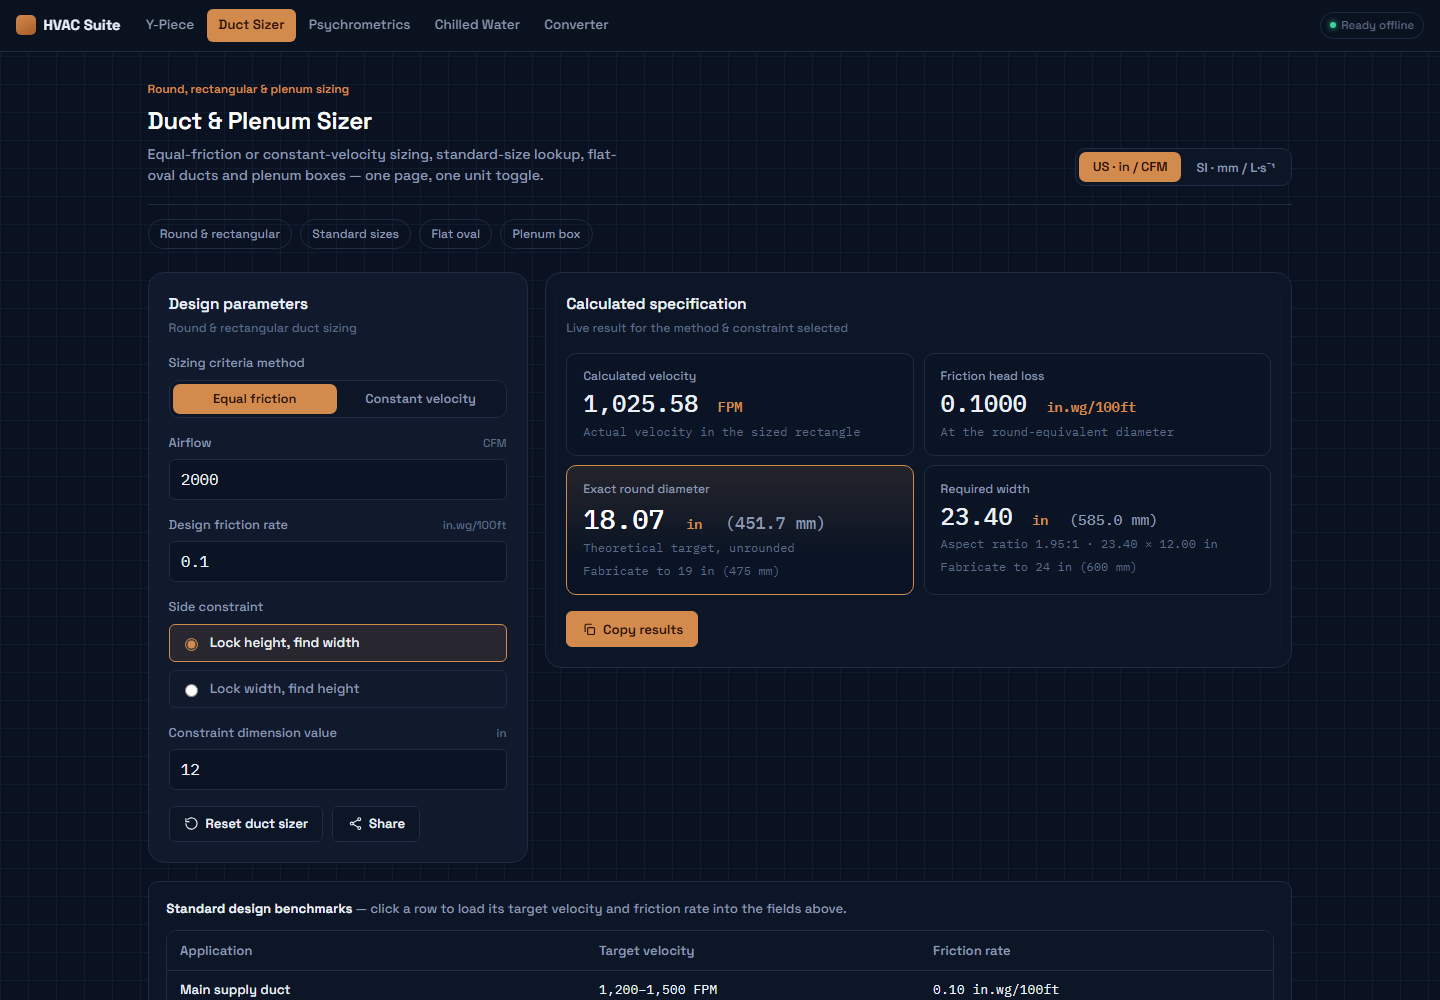
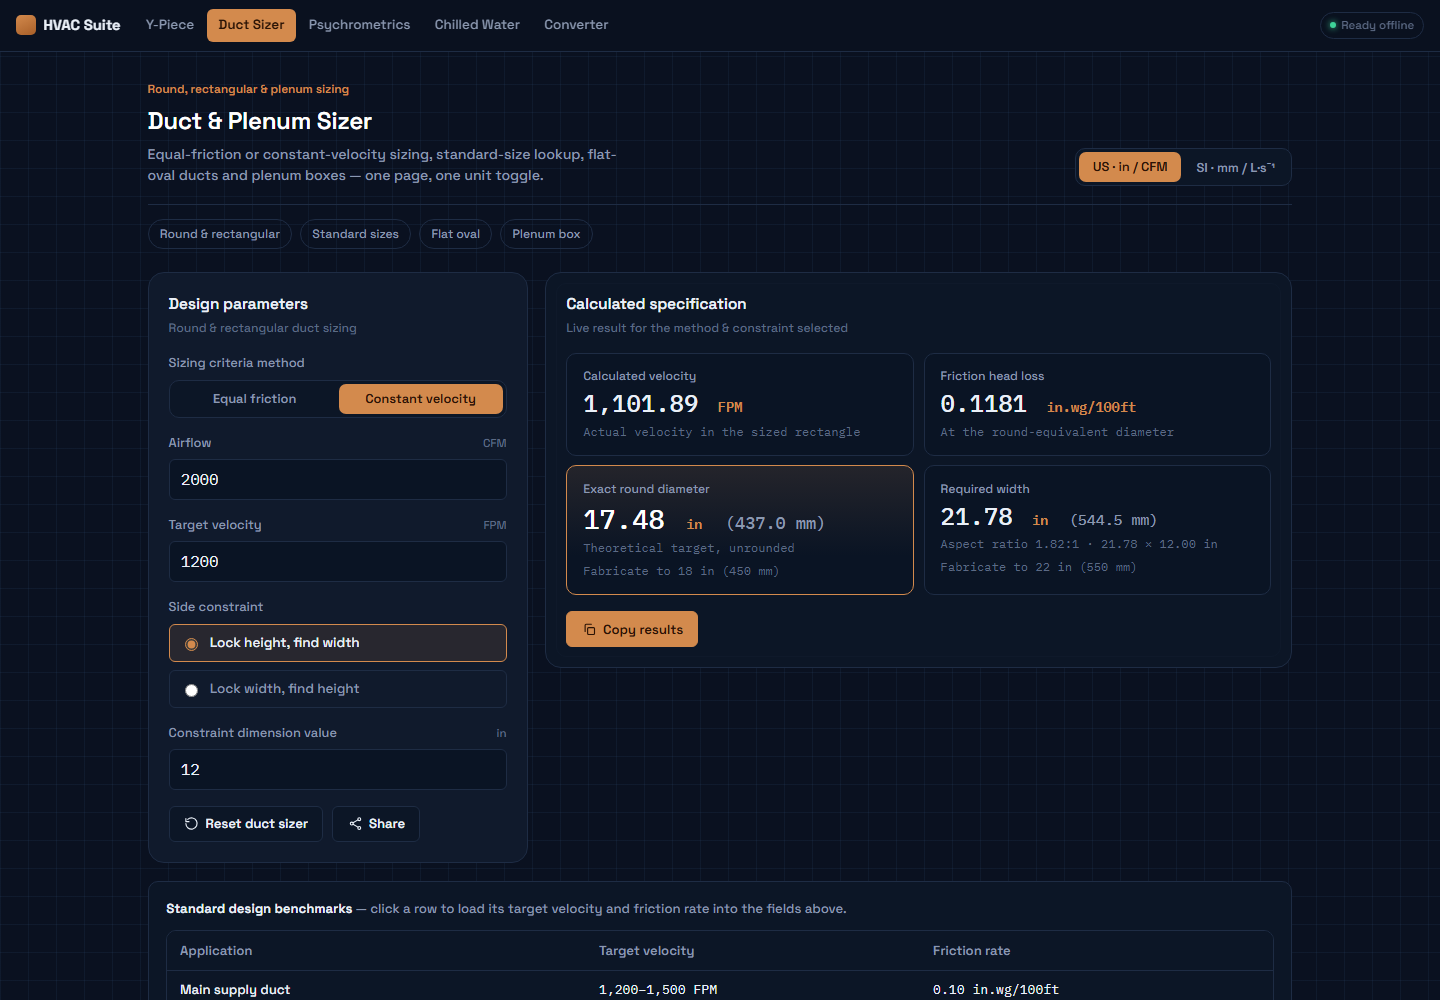
change landing defaults: duct sizer to constant velocity @1200 FPM, psychrometrics to IP with 55% RH
Duct sizer now opens on the sizing method engineers reach for most
often. Lock height was already the default; the method and target
velocity are what change.

- method: equal friction -> constant velocity
- target velocity: 1350 -> 1200 FPM
- static first-paint markup moved to match, so the correct toggle is
  active before the script runs and the friction field is the one hidden

At 2000 CFM / 1200 FPM this lands on a 17.48 in round equivalent and a
12 x 22 in rectangle at 1102 FPM.

Psychrometrics now opens in IP, matching the rest of the suite, with the
familiar 77 degF / 55% RH sea-level case.

- default unit SI -> IP, DB 24 C -> 77 F, RH 50% -> 55%
- the RH seed on mode switch is now 55% to match
- static unit toggle and field hints updated to degF/ft for first paint

Verified against hand calculation: 77 F / 55% RH at sea level gives
W = 76.16 gr/lb, h = 30.40 Btu/lb, v = 13.767 ft3/lb.

Defaults only apply when no state is stored, so anyone who has already
entered values keeps their case. Retaken the duct sizer and
psychrometrics screenshots so the README matches the landing state.

diff --git a/psychrometrics/index.html b/psychrometrics/index.html
@@ -50,8 +50,8 @@
       <p>Full state from dry-bulb plus any one of relative humidity, wet-bulb or dew-point — with a live chart and ISHRAE city presets.</p>
     </div>
     <div class="segmented" id="unitToggle" role="group" aria-label="Unit system">
-      <button type="button" data-unit="si" class="active">SI · °C / kPa</button>
-      <button type="button" data-unit="ip">IP · °F / psia</button>
+      <button type="button" data-unit="si">SI · °C / kPa</button>
+      <button type="button" data-unit="ip" class="active">IP · °F / psia</button>
     </div>
   </div>
 
@@ -69,11 +69,11 @@
 
       <div class="grid-2">
         <div class="field">
-          <label for="pDB">Dry-bulb temperature <span class="hint" id="u_pDB">°C</span></label>
+          <label for="pDB">Dry-bulb temperature <span class="hint" id="u_pDB">°F</span></label>
           <input type="number" id="pDB" inputmode="decimal" step="any">
         </div>
         <div class="field">
-          <label for="pAlt">Altitude <span class="hint" id="u_pAlt">m</span></label>
+          <label for="pAlt">Altitude <span class="hint" id="u_pAlt">ft</span></label>
           <input type="number" id="pAlt" inputmode="decimal" step="any">
         </div>
       </div>
@@ -212,7 +212,7 @@
   function round3(v) { return Math.round(v * 1000) / 1000; }
 
   /* ---- persistence ---- */
-  const DEFAULTS = { unit: 'si', mode: 'rh', pDB: 24, pAlt: 0, pSecond: 50, pCity: '' };
+  const DEFAULTS = { unit: 'ip', mode: 'rh', pDB: 77, pAlt: 0, pSecond: 55, pCity: '' };
   function currentState() {
     return { unit, mode, pDB: $('pDB').value, pAlt: $('pAlt').value, pSecond: $('pSecond').value, pCity: citySel.value };
   }
@@ -387,7 +387,7 @@
   document.querySelectorAll('#unitToggle button').forEach((b) => b.addEventListener('click', () => setUnit(b.dataset.unit)));
   document.querySelectorAll('#modeToggle button').forEach((b) => b.addEventListener('click', () => {
     mode = b.dataset.mode; paintMode();
-    if (mode === 'rh') $('pSecond').value = 50;
+    if (mode === 'rh') $('pSecond').value = 55;
     else $('pSecond').value = round3(fromTempC(toTempC(parseFloat($('pDB').value)) - 5));
     persist(); recompute();
   }));

diff --git a/duct-sizer/index.html b/duct-sizer/index.html
@@ -81,8 +81,8 @@
         <fieldset>
           <legend>Sizing criteria method</legend>
           <div class="segmented" id="methodToggle" style="width:100%;">
-            <button type="button" data-method="ef" class="active" style="flex:1;">Equal friction</button>
-            <button type="button" data-method="cv" style="flex:1;">Constant velocity</button>
+          <button type="button" data-method="ef" style="flex:1;">Equal friction</button>
+          <button type="button" data-method="cv" class="active" style="flex:1;">Constant velocity</button>
           </div>
         </fieldset>
 
@@ -350,8 +350,8 @@
 
   /* ================= persistence ================= */
   const DEFAULTS = {
-    unit: 'ip', method: 'ef',
-    dQ: 2000, dF: 0.10, dV: 1350, lock: 'h', dLock: 12,
+    unit: 'ip', method: 'cv',
+    dQ: 2000, dF: 0.10, dV: 1200, lock: 'h', dLock: 12,
     ovQ: 500, ovA: 20, ovB: 10,
     plQ: 4000, plV: 500, plLock: 'h', plLockVal: 24,
   };
